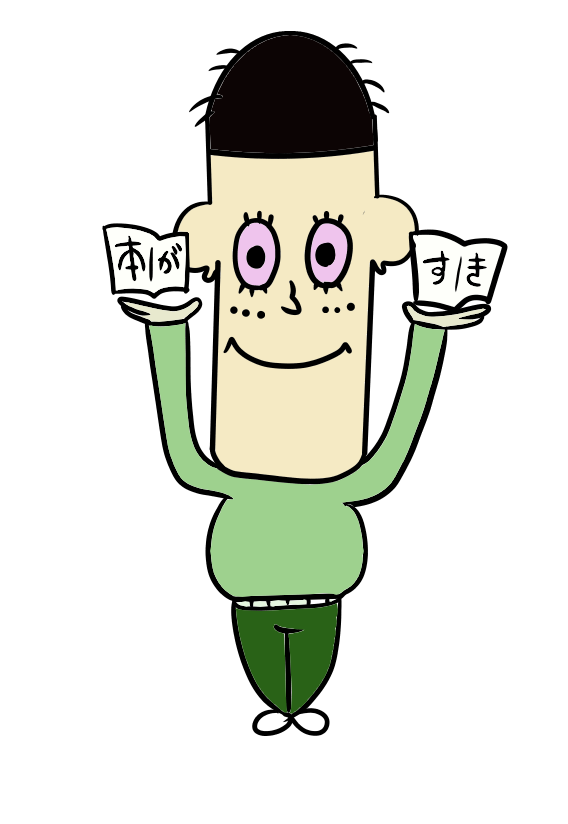
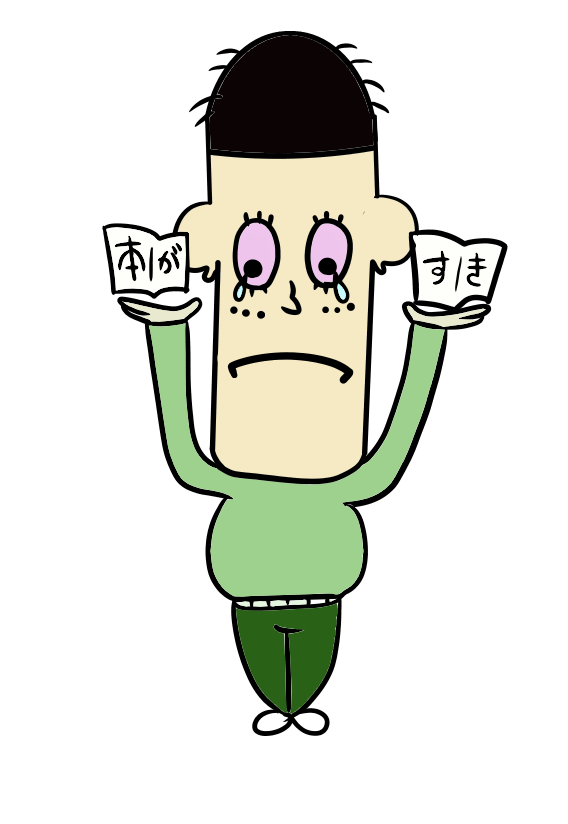
modify enemy image and text

Changed region(s): [[0.3891, 0.3944, 0.6285, 0.4854], [0.5387, 0.2731, 0.6285, 0.3641], [0.3891, 0.3034, 0.4789, 0.3641]]

diff --git a/Assets/Scripts/GameScene.cs b/Assets/Scripts/GameScene.cs
@@ -74,7 +74,7 @@ public class GameScene : MonoBehaviour {
 		questionManager.LoadQuestion (GameManager.instance.SelectLevel);
 
         questionText = GameObject.Find ("QuestionText").GetComponent<Text> ();
-        questionText.text = "みんなが入るまで待ってね";
+		questionText.text = "みんなの じゅんびが\nできるまで まってね";
 
         answerText1 = GameObject.Find ("AnswerText1").GetComponent<Text> ();
         answerText2 = GameObject.Find ("AnswerText2").GetComponent<Text> ();
